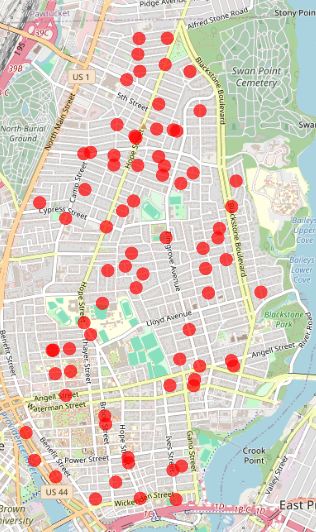
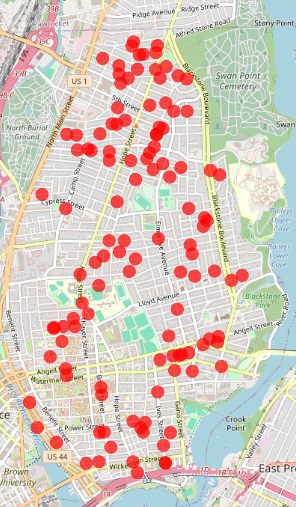
update Providence results

diff --git a/data/Providence/process.py b/data/Providence/process.py
@@ -18,6 +18,7 @@ if __name__=='__main__':
     outputfile = 'data-providence-{}.csv'
     treetype_key = 'Species'
     treetype_filter = os.path.abspath(os.path.join(thisdir, 'filters/treetype_filter.json'))
+    max_cluster_distance = 100
 
     # filter
     filtered = 'temp-1.csv'
@@ -26,6 +27,7 @@ if __name__=='__main__':
     cmd += f' -o {filtered}'
     cmd += f' --treetype_key {treetype_key}'
     cmd += f' --treetype_filter {treetype_filter}'
+    print('--- Running filtering ---')
     os.system(cmd)
 
     # parse
@@ -33,6 +35,7 @@ if __name__=='__main__':
     cmd = 'python3 parse.py'
     cmd += f' -i {filtered}'
     cmd += f' -o {parsed}'
+    print('--- Running parsing ---')
     os.system(cmd)
 
     # select square
@@ -41,7 +44,9 @@ if __name__=='__main__':
     cmd += f' -i {parsed}'
     cmd += f' -o {selected}'
     cmd += ' --lat_min {}'.format(41.813)
+    cmd += ' --lat_max {}'.format(41.839)
     cmd += ' --lon_min {}'.format(-71.408)
+    print('--- Running square selection ---')
     os.system(cmd)
 
     # cluster
@@ -49,9 +54,12 @@ if __name__=='__main__':
     cmd = 'python3 ' + os.path.join(datatoolsdir, 'cluster_streets.py')
     cmd += f' -i {selected}'
     cmd += f' -o {clustered}'
+    cmd += f' --max_distance {max_cluster_distance}'
+    print('--- Running clustering ---')
     os.system(cmd)
 
     # plotting
+    print('--- Running plotting ---')
     cmd = 'python3 ' + os.path.join(datatoolsdir, 'plot_locations.py')
     cmd += f' -i {parsed}'
     os.system(cmd)

diff --git a/data/Providence/README.md b/data/Providence/README.md
@@ -11,19 +11,26 @@ After filtering on *Prunus serrulata* (including subtypes): 475 items remaining
 <img src="docs/filtered.png">
 
 After selecting only north-east section (College Hill): 166 items remaining.  
-After clustering by street name: 76 items remaining.
+After clustering by street name: 76 items remaining.  
+However, because of some very long streets,
+and also because of some mislabeled data entries,
+the centers of these 76 clusters are not always meaningful.
+The clusters are therefore split by the criterion that the maximum intra-cluster distance is 100m.
+This results 118 clusters.
 
 <img src="docs/clustered.png">
 
 ### Shortest path calculation
-The number of clustered items (76) is still too large for a full distance matrix calculation.
+The number of clustered items (118) is still too large for a full distance matrix calculation.
 Instead, the geodesic approximation ('as the crow flies') is used, employing the haversine formula.
 The shortest path according to this approximation is shown below.
 
 <img src="docs/shortest_path_geodesic.png">
 
-The detailed route corresponding to this trajectory is shown below. Its total distance is 27.964 km.
+The detailed route corresponding to this trajectory is shown below. Its total distance is 31.582 km.
 
 <img src="docs/optimal_route.png">
 
-An interactive map of this route can be found [here](https://www.google.com/maps/d/u/0/edit?mid=1rFmKRlpUEEuuJFzEooowr8raS5VHxHA&usp=sharing)
+An interactive map of this route can be found [here](https://www.google.com/maps/d/u/0/edit?mid=1rFmKRlpUEEuuJFzEooowr8raS5VHxHA&usp=sharing).
+This includes also a shorter southern loop of 16.598 km,
+passing by a still respectable 88 cherry blossom trees.
